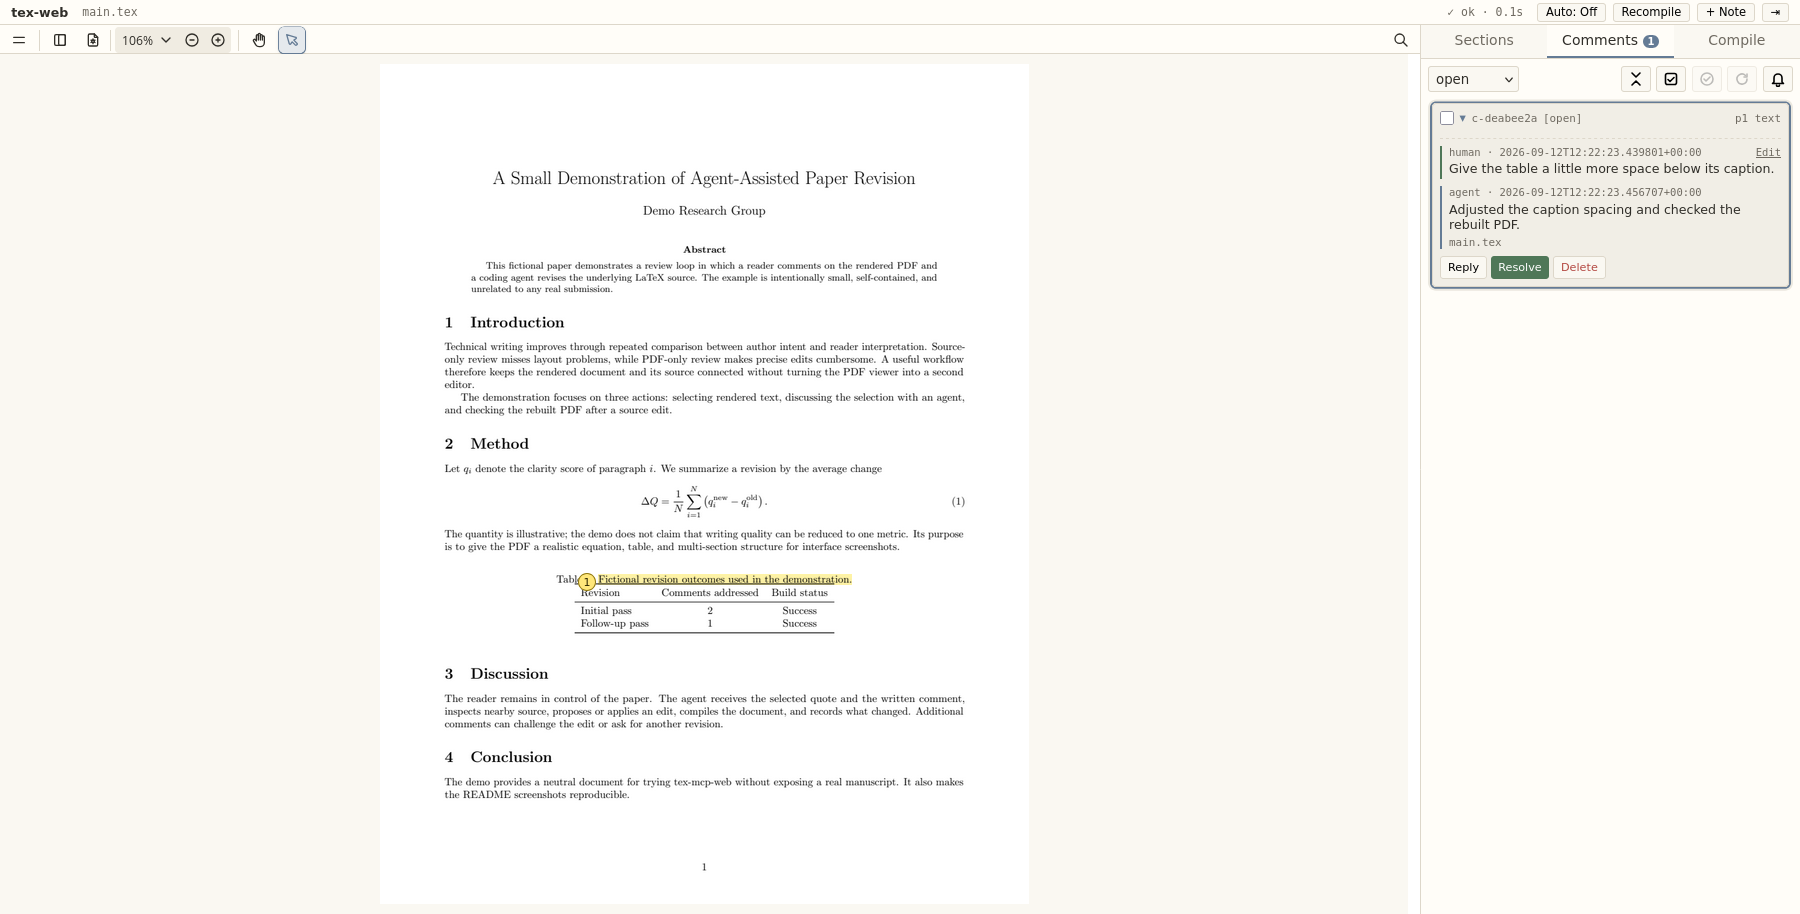
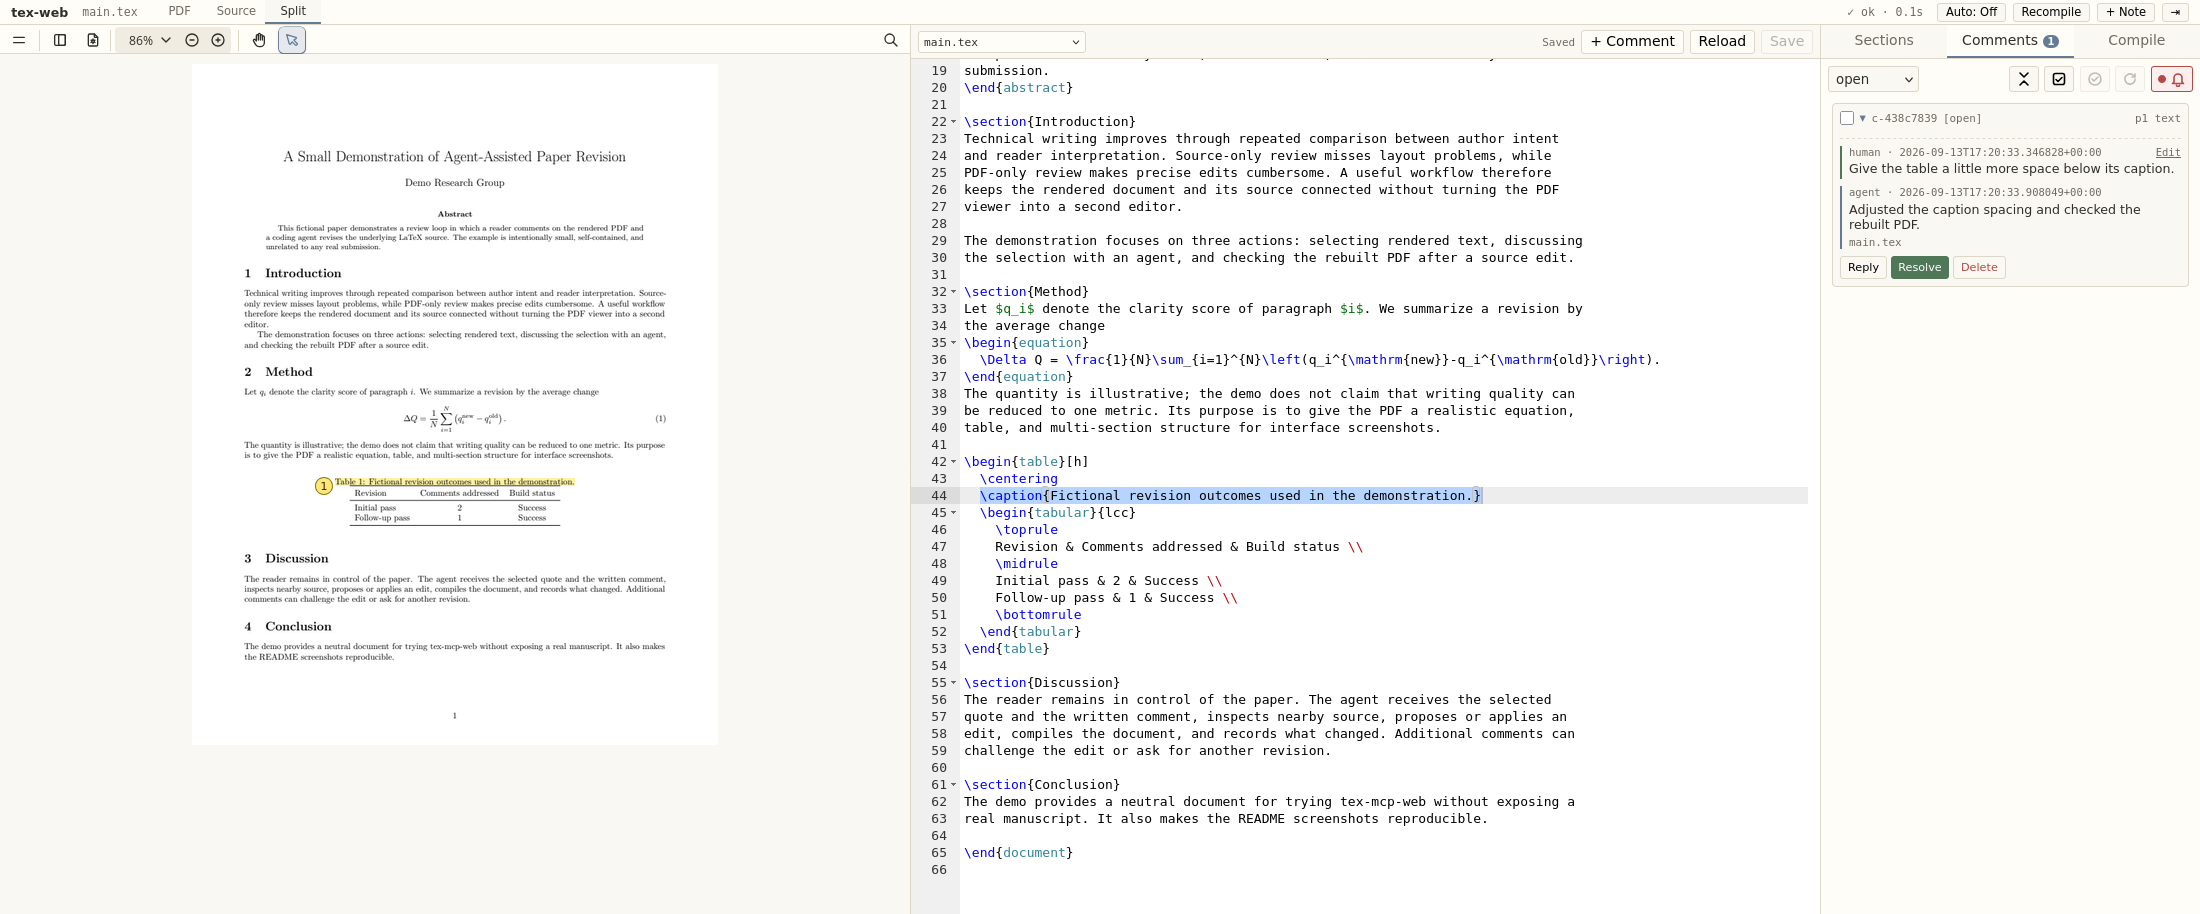
Add source-anchored review comments

diff --git a/tex_mcp_web/static/viewer.js b/tex_mcp_web/static/viewer.js
@@ -40,6 +40,9 @@ const state = {
   sourceRevision: null,
   sourceDirty: false,
   sourceLoading: false,
+  sourceCommentMarkers: [],
+  sourceCommentRows: new Set(),
+  sourceCommentsByRow: new Map(),
   panelDraggedAt: 0,
 };
 
@@ -460,6 +463,73 @@ function setSourceDirty(dirty) {
   state.sourceDirty = dirty;
   $("#source-save-btn").disabled = !dirty;
   if (dirty) setSourceStatus("Unsaved", "dirty");
+  updateSourceCommentButton();
+}
+
+function updateSourceCommentButton() {
+  const button = $("#source-comment-btn");
+  if (!button) return;
+  const selected = Boolean(state.editor?.getSelectedText().trim());
+  button.disabled = !selected || state.sourceDirty;
+  button.title = state.sourceDirty
+    ? "Save source before commenting"
+    : selected ? "Comment on the selected source lines" : "Select source text to comment";
+}
+
+function clearSourceCommentMarkers() {
+  if (!state.editor) return;
+  for (const marker of state.sourceCommentMarkers) state.editor.session.removeMarker(marker);
+  for (const row of state.sourceCommentRows) {
+    state.editor.session.removeGutterDecoration(row, "source-comment-line");
+  }
+  state.sourceCommentMarkers = [];
+  state.sourceCommentRows.clear();
+  state.sourceCommentsByRow.clear();
+}
+
+function syncSourceCommentMarkers() {
+  if (!state.editor) return;
+  clearSourceCommentMarkers();
+  if (!state.sourcePath) return;
+  const Range = window.ace.require("ace/range").Range;
+  for (const comment of state.comments) {
+    if (comment.status !== "open" || comment.anchor.kind !== "source_range"
+        || comment.anchor.file !== state.sourcePath) continue;
+    const firstRow = Math.max(0, comment.anchor.line_start - 1);
+    const lastRow = Math.max(firstRow, comment.anchor.line_end - 1);
+    state.sourceCommentMarkers.push(state.editor.session.addMarker(
+      new Range(firstRow, 0, lastRow, 1),
+      "source-comment-highlight",
+      "fullLine",
+      false,
+    ));
+    state.editor.session.addGutterDecoration(firstRow, "source-comment-line");
+    state.sourceCommentRows.add(firstRow);
+    const rowComments = state.sourceCommentsByRow.get(firstRow) ?? [];
+    rowComments.push(comment);
+    state.sourceCommentsByRow.set(firstRow, rowComments);
+  }
+}
+
+function openSourceCommentCompose() {
+  if (!state.editor || !state.sourcePath || state.sourceDirty) return;
+  const text = state.editor.getSelectedText().trim();
+  const range = state.editor.getSelectionRange();
+  if (!text || range.isEmpty()) return;
+  const lineStart = range.start.row + 1;
+  const lineEnd = range.end.row > range.start.row && range.end.column === 0
+    ? range.end.row
+    : range.end.row + 1;
+  openCompose(
+    {
+      kind: "source_range",
+      file: state.sourcePath,
+      line_start: lineStart,
+      line_end: lineEnd,
+    },
+    `Source: ${state.sourcePath}:${lineStart}-${lineEnd}`,
+    text,
+  );
 }
 
 async function openSource(path, line = null, force = false) {
@@ -491,6 +561,8 @@ async function openSource(path, line = null, force = false) {
   $("#source-save-btn").disabled = true;
   $("#source-reload-btn").disabled = false;
   setSourceStatus("Saved");
+  syncSourceCommentMarkers();
+  updateSourceCommentButton();
   if (line !== null) {
     state.editor.gotoLine(Math.max(1, Number(line)), 0, true);
     state.editor.focus();
@@ -539,6 +611,16 @@ async function initializeSourceEditor() {
   state.editor.on("change", () => {
     if (!state.sourceLoading) setSourceDirty(true);
   });
+  state.editor.on("changeSelection", updateSourceCommentButton);
+  state.editor.on("guttermousedown", (event) => {
+    const row = event.getDocumentPosition().row;
+    const comments = state.sourceCommentsByRow.get(row);
+    if (!comments?.length || !event.domEvent.target.classList.contains("source-comment-line")) return;
+    event.stop();
+    setSidebarCollapsed(false);
+    switchTab("comments");
+    focusComment(comments[0]);
+  });
   state.editor.commands.addCommand({
     name: "saveSource",
     bindKey: { win: "Ctrl-S", mac: "Command-S" },
@@ -575,6 +657,7 @@ async function saveSource() {
   state.sourceDirty = false;
   button.disabled = true;
   setSourceStatus("Saved");
+  updateSourceCommentButton();
 }
 
 async function reloadSource() {
@@ -585,6 +668,7 @@ async function reloadSource() {
 }
 
 async function setWorkspaceView(view) {
+  const zoomMode = state.zoom?.getState().zoomLevel;
   state.view = view;
   const layout = $(".layout");
   layout.classList.remove("view-pdf", "view-source", "view-split");
@@ -594,7 +678,10 @@ async function setWorkspaceView(view) {
   }
   localStorage.setItem("workspaceView", view);
   if (view !== "pdf") await initializeSourceEditor();
-  requestAnimationFrame(() => state.editor?.resize());
+  requestAnimationFrame(() => {
+    state.editor?.resize();
+    if (typeof zoomMode === "string") state.zoom?.requestZoom(zoomMode);
+  });
 }
 
 async function handleSourceChanged(message) {
@@ -677,6 +764,7 @@ async function refreshComments() {
       : moment(first) > moment(second) ? -1 : 0));
   renderComments();
   syncCommentAnnotations();
+  syncSourceCommentMarkers();
 }
 
 function renderComments() {
@@ -1538,7 +1626,10 @@ async function jumpToSource(file, line) {
 async function jumpToComment(commentId) {
   const comment = state.comments.find((item) => item.id === commentId);
   if (!comment) return;
-  if (comment.anchor.kind === "text_selection" || comment.anchor.kind === "area") {
+  if (comment.anchor.kind === "source_range") {
+    if (state.view === "pdf") await setWorkspaceView("source");
+    await openSource(comment.anchor.file, comment.anchor.line_start);
+  } else if (comment.anchor.kind === "text_selection" || comment.anchor.kind === "area") {
     const selection = comment.anchor.kind === "text_selection"
       ? comment.anchor.selection
       : { page: comment.anchor.page, bbox: comment.anchor.bbox };
@@ -1700,6 +1791,7 @@ async function init() {
   $("#source-reload-btn").addEventListener("click", () => {
     reloadSource().catch((error) => alert(`Could not reload: ${error.message}`));
   });
+  $("#source-comment-btn").addEventListener("click", openSourceCommentCompose);
   $("#source-file").addEventListener("change", (event) => {
     openSource(event.target.value).catch((error) => alert(`Could not open source: ${error.message}`));
   });

diff --git a/tex_mcp_web/static/index.html b/tex_mcp_web/static/index.html
@@ -4,7 +4,7 @@
 <meta charset="UTF-8">
 <meta name="viewport" content="width=device-width, initial-scale=1.0">
 <title>tex-web</title>
-<link rel="stylesheet" href="/static/style.css?v=source-editor">
+<link rel="stylesheet" href="/static/style.css?v=source-comments">
 </head>
 <body>
 <div id="app">
@@ -40,6 +40,7 @@
         <div class="source-toolbar">
           <select id="source-file" aria-label="Source file"></select>
           <span id="source-status" class="source-status">Open Source to edit</span>
+          <button id="source-comment-btn" type="button" disabled title="Select source text to comment">+ Comment</button>
           <button id="source-reload-btn" type="button" disabled>Reload</button>
           <button id="source-save-btn" type="button" disabled>Save</button>
         </div>

diff --git a/tex_mcp_web/static/style.css b/tex_mcp_web/static/style.css
@@ -190,6 +190,23 @@ textarea {
   min-height: 0;
   font-family: var(--mono);
 }
+#source-editor .ace_marker-layer .source-comment-highlight {
+  position: absolute;
+  background: rgba(252, 220, 0, 0.24);
+}
+#source-editor .ace_gutter-cell.source-comment-line::before {
+  content: "";
+  position: absolute;
+  left: 3px;
+  top: 50%;
+  width: 7px;
+  height: 7px;
+  border: 1px solid #b69600;
+  border-radius: 50%;
+  background: #fbdc00;
+  transform: translateY(-50%);
+}
+#source-editor .ace_gutter-cell.source-comment-line { cursor: pointer; }
 #sidebar {
   border-left: 1px solid var(--border);
   background: var(--bg-elev);

diff --git a/tests/test_browser.py b/tests/test_browser.py
@@ -111,6 +111,12 @@ def test_browser_comment_actions(tmp_path: Path) -> None:
         browser.navigate(base)
         wait_until(lambda: browser.execute_script(
             'return document.querySelectorAll("[data-comment-id]").length === 1'))
+        pdf_zoom = wait_until(lambda: browser.execute_script('''
+          const input = document.querySelector("embedpdf-container")?.shadowRoot
+            ?.querySelector('input[name="zoom"]');
+          const value = Number(input?.value);
+          return value > 0 ? value : false;
+        '''))
 
         browser.execute_script('document.querySelector("[data-view=source]").click()')
         wait_until(lambda: browser.execute_script(
@@ -131,6 +137,39 @@ def test_browser_comment_actions(tmp_path: Path) -> None:
         browser.execute_script('''
           const page = window.wrappedJSObject || window;
           const editor = page.ace.edit("source-editor");
+          const Range = page.ace.require("ace/range").Range;
+          editor.selection.setRange(new Range(3, 0, 3, 12));
+          document.querySelector("#source-comment-btn").click();
+        ''')
+        wait_until(lambda: browser.execute_script(
+            'return document.querySelector("#compose-dialog").open'))
+        assert browser.execute_script('''
+          return [document.querySelector("#compose-anchor").textContent,
+            document.querySelector("#compose-suggestion-old").value];
+        ''') == ["Source: paper.tex:4-4", "Hello world."]
+        browser.execute_script('''
+          const input = document.querySelector("#compose-text");
+          input.value = "Clarify this source sentence.";
+          input.dispatchEvent(new Event("input", {bubbles: true}));
+          document.querySelector("#compose-form").requestSubmit();
+        ''')
+        source_comment = wait_until(lambda: next(
+            (item for item in get_json(f"{base}/comments")["comments"]
+             if item["anchor"]["kind"] == "source_range"),
+            None,
+        ))
+        source_cid = source_comment["id"]
+        assert source_comment["anchor"] == {
+            "kind": "source_range", "file": "paper.tex", "line_start": 4, "line_end": 4,
+        }
+        assert source_comment["source_selector"]["exact"] == "Hello world."
+        wait_until(lambda: browser.execute_script('''
+          return document.querySelectorAll("#source-editor .source-comment-highlight").length === 1
+            && document.querySelectorAll("#source-editor .source-comment-line").length === 1;
+        '''))
+        browser.execute_script('''
+          const page = window.wrappedJSObject || window;
+          const editor = page.ace.edit("source-editor");
           editor.setValue(editor.getValue().replace("Hello world.", "Hello editor."), -1);
           document.querySelector("#source-save-btn").click();
         ''')
@@ -143,6 +182,26 @@ def test_browser_comment_actions(tmp_path: Path) -> None:
           return document.querySelector(".layout").classList.contains("view-split")
             && getComputedStyle(document.querySelector("#pdf-pane")).display !== "none"
             && getComputedStyle(document.querySelector("#source-pane")).display === "flex";
+        '''))
+        split_zoom = wait_until(lambda: browser.execute_script('''
+          const input = document.querySelector("embedpdf-container")?.shadowRoot
+            ?.querySelector('input[name="zoom"]');
+          const value = Number(input?.value);
+          return value > 0 && value < arguments[0] ? value : false;
+        ''', script_args=[pdf_zoom]))
+        assert split_zoom < pdf_zoom
+        browser.execute_script('document.querySelector("[data-view=pdf]").click()')
+        wait_until(lambda: browser.execute_script(
+            'return document.querySelector(".layout").classList.contains("view-pdf")'))
+        browser.execute_script(f'''
+          const card = Array.from(document.querySelectorAll("[data-comment-id]"))
+            .find((node) => node.dataset.commentId === "{source_cid}");
+          card.querySelector(".cmt-preview, .cmt-id").click();
+        ''')
+        wait_until(lambda: browser.execute_script('''
+          const page = window.wrappedJSObject || window;
+          return document.querySelector(".layout").classList.contains("view-source")
+            && page.ace.edit("source-editor").getCursorPosition().row === 3;
         '''))
         browser.execute_script('document.querySelector("[data-view=pdf]").click()')
         wait_until(lambda: browser.execute_script(

diff --git a/README.md b/README.md
@@ -4,14 +4,14 @@ Review a LaTeX paper from its rendered PDF while Claude Code or Codex edits the 
 
 If it helps your writing, a star is very welcome.
 
-![A highlighted PDF comment and an agent reply in tex-mcp-web](docs/images/discussion.png)
+![A highlighted PDF caption, its LaTeX source, and the review thread in Split view](docs/images/discussion.png)
 
-You read the PDF in a browser and comment on selected text, a section, or the whole paper. The agent reads those comments over MCP, edits the LaTeX, compiles once after the batch, and replies in the same thread. Because you point at the rendered PDF, you never hunt for the source line.
+You read the PDF in a browser and comment on selected PDF text, selected source lines, a section, or the whole paper. The agent reads those comments over MCP, edits the LaTeX, compiles once after the batch, and replies in the same thread.
 
-Use the topbar's **PDF**, **Source**, and **Split** tabs to review the rendered paper, make a small source edit, or see both together. Source files follow the configured `watch` and `ignore` rules. Saving is explicit, and the editor refuses to overwrite a file changed by an agent or another editor after it was opened.
+Use the topbar's **PDF**, **Source**, and **Split** tabs to review the rendered paper, make a small source edit, or see both together. Select source text and press **+ Comment** to start the same review thread from the editor. Source files follow the configured `watch` and `ignore` rules. Saving is explicit, and the editor refuses to overwrite a file changed by an agent or another editor after it was opened.
 
 ```
-you:    select text in the PDF -> write a comment
+you:    select PDF or source text -> write a comment
                   |
 agent:  read comments -> edit LaTeX -> compile -> reply
                   |
